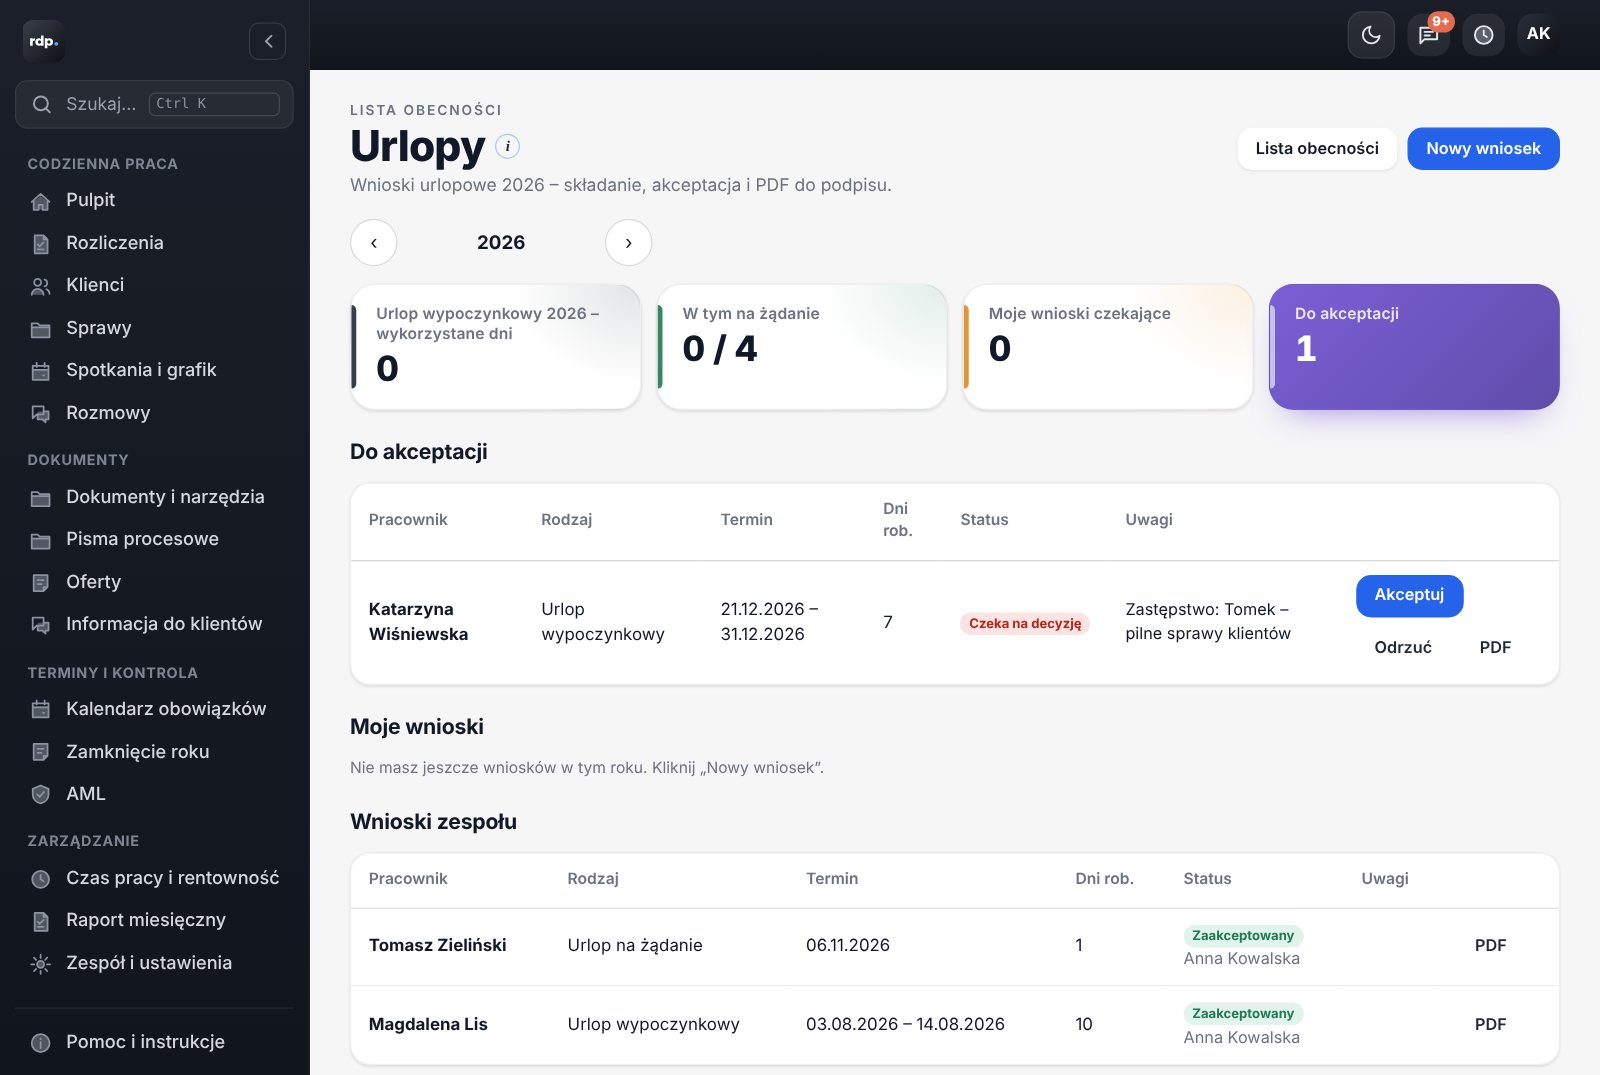
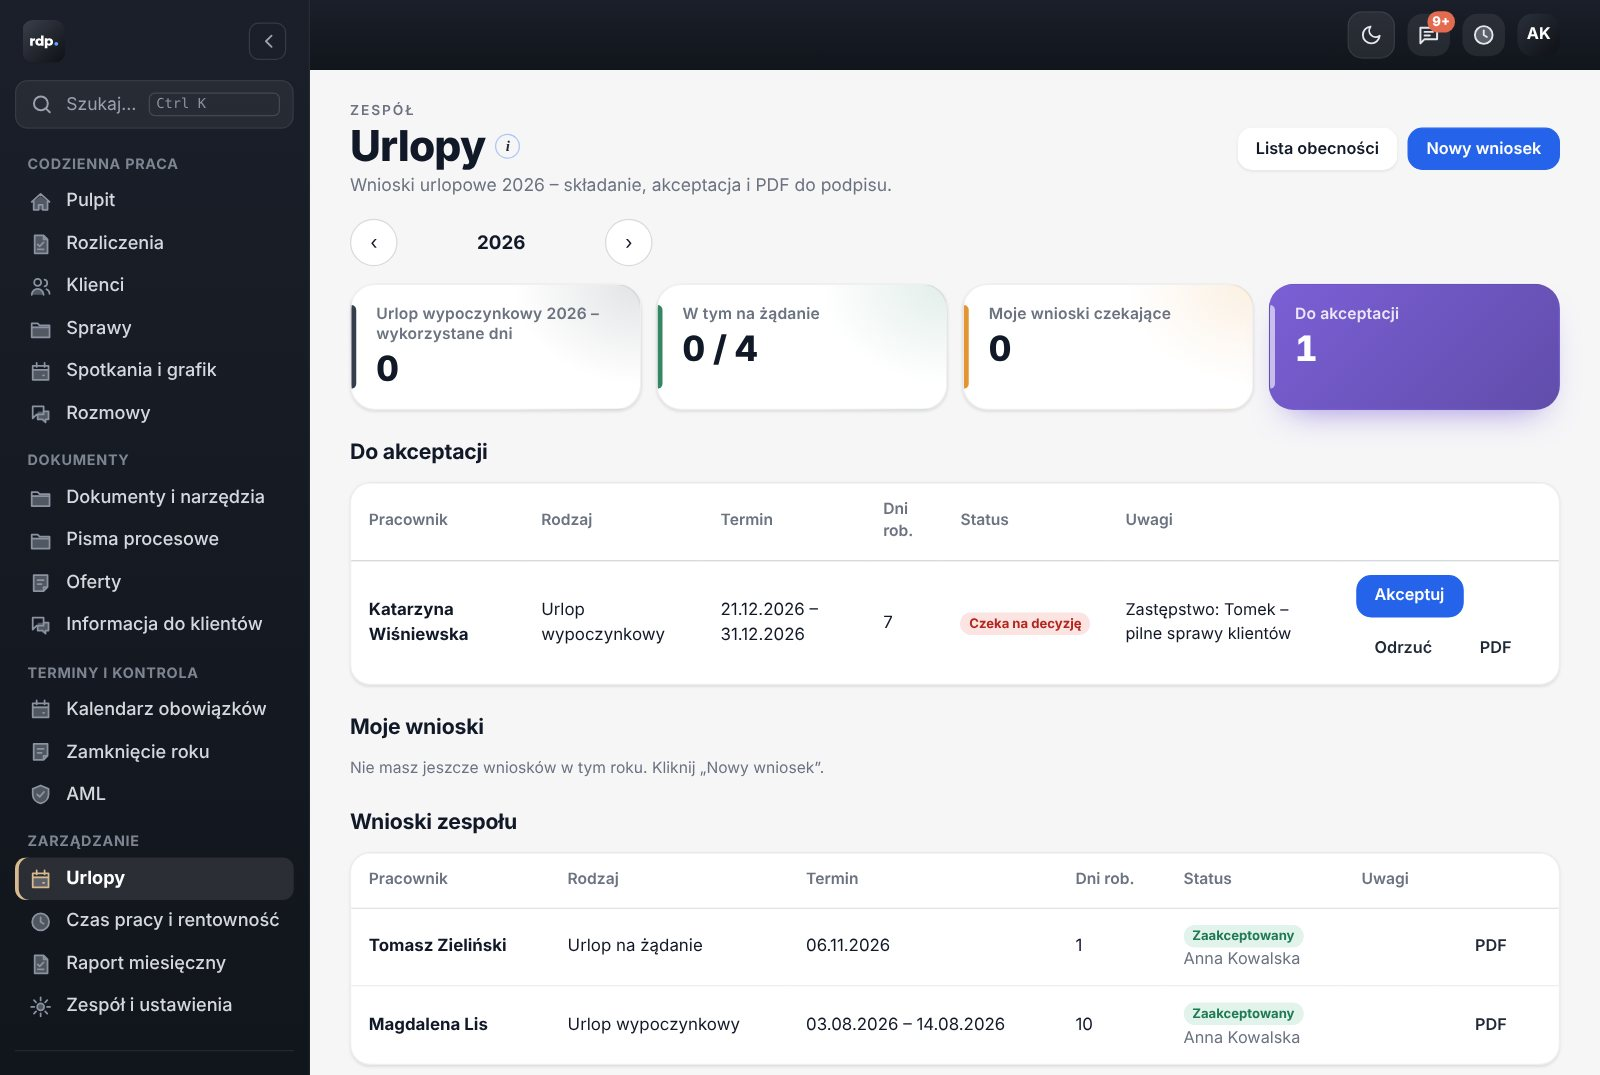
Urlopy w menu dla całego zespołu (także bez listy obecności)
Claude-Session: https://claude.ai/code/session_015JBGQnBs9Q66i9WSPfBoSb

Changed region(s): [[0.0, 0.8902, 0.1562, 0.9823], [0.0, 0.7981, 0.1875, 0.8595], [0.2188, 0.0921, 0.3125, 0.1228]]

diff --git a/public/js/main.js b/public/js/main.js
@@ -72,12 +72,12 @@ const MODULES = {
     // „Więcej” – rzadziej używane miejsca (też w wyszukiwarce Ctrl K)
     more: [['#/spotkania', 'Spotkania i grafik przyjęć', 'spotkania'], ['#/rozmowy', 'Rozmowy – wszystkie wątki o klientach', 'rozmowy'], ['#/dokumenty', 'Dokumenty i narzędzia (JPK, sprawozdania, wzory, kalkulator)', 'sprawozdania'], ['#/terminy', 'Kalendarz obowiązków', 'terminy'],
       ['#/zamkniecie-roku', 'Zamknięcie roku', 'rok'], ['#/informacje', 'Informacja do klientów (e-mail zbiorczy)', 'informacje'], ['#/oferty', 'Oferty', 'oferty'], ['#/aml', 'AML – weryfikacja klientów', 'aml'],
-      ['#/doradztwo/dokumenty', 'Pisma procesowe – wzory (RKDP i M2 TAX)', 'm2:dokumenty'], ['#/czas', 'Czas pracy i rentowność', 'm2:czas', 'admin'],
+      ['#/doradztwo/dokumenty', 'Pisma procesowe – wzory (RKDP i M2 TAX)', 'm2:dokumenty'], ['#/obecnosc/urlopy', 'Urlopy – wnioski urlopowe', 'urlopy'], ['#/czas', 'Czas pracy i rentowność', 'm2:czas', 'admin'],
       ['#/raport', 'Raport miesięczny', 'raport', 'admin'], ['#/zespol', 'Zespół i ustawienia', 'zespol', 'admin'], ['/pomoc/', 'Pomoc i instrukcje', 'pomoc'], ['/zainstaluj/', 'Zainstaluj rdp.app na telefonie', 'zainstaluj'], ['#/o-aplikacji', 'O aplikacji i RODO', 'oaplikacji'], ['#/', 'Wyloguj się', 'logout']] },
   m2: { label: 'M2 TAX', full: 'rdp.app', logo: '/m2tax-logo.png', alt: 'M2 TAX Doradcy Podatkowi', home: '#/doradztwo', need: 'doradztwo',
     // ten sam układ zakładek co w RKDP: Pulpit · Klienci · Sprawy · … · Więcej
     tabs: [['#/doradztwo', 'Pulpit', 'm2:'], ['#/doradztwo/klienci', 'Klienci', 'm2:klienci'], ['#/doradztwo/sprawy', 'Sprawy', 'm2:sprawy']],
-    more: [['#/doradztwo/dokumenty', 'Dokumenty i pisma procesowe', 'm2:dokumenty'], ['#/doradztwo/zlecenia', 'Zlecenia i umowy', 'm2:zlecenia'], ['#/doradztwo/oferty', 'Oferty M2 TAX', 'm2:oferty', 'm2'], ['#/doradztwo/zadania', 'Zadania zespołu', 'm2:zadania'], ['#/spotkania', 'Spotkania i grafik przyjęć', 'spotkania'], ['#/czas', 'Czas pracy i rentowność', 'm2:czas', 'admin'], ['#/zespol', 'Zespół i ustawienia', 'zespol', 'admin'], ['/pomoc/', 'Pomoc i instrukcje', 'pomoc'], ['/zainstaluj/', 'Zainstaluj rdp.app na telefonie', 'zainstaluj'], ['#/o-aplikacji', 'O aplikacji i RODO', 'oaplikacji'], ['#/', 'Wyloguj się', 'logout']] },
+    more: [['#/doradztwo/dokumenty', 'Dokumenty i pisma procesowe', 'm2:dokumenty'], ['#/doradztwo/zlecenia', 'Zlecenia i umowy', 'm2:zlecenia'], ['#/doradztwo/oferty', 'Oferty M2 TAX', 'm2:oferty', 'm2'], ['#/doradztwo/zadania', 'Zadania zespołu', 'm2:zadania'], ['#/spotkania', 'Spotkania i grafik przyjęć', 'spotkania'], ['#/obecnosc/urlopy', 'Urlopy – wnioski urlopowe', 'urlopy'], ['#/czas', 'Czas pracy i rentowność', 'm2:czas', 'admin'], ['#/zespol', 'Zespół i ustawienia', 'zespol', 'admin'], ['/pomoc/', 'Pomoc i instrukcje', 'pomoc'], ['/zainstaluj/', 'Zainstaluj rdp.app na telefonie', 'zainstaluj'], ['#/o-aplikacji', 'O aplikacji i RODO', 'oaplikacji'], ['#/', 'Wyloguj się', 'logout']] },
 };
 // konto „tylko podgląd JPK” – widzi wyłącznie zakładkę JPK
 MODULES.jpk = { label: 'RKDP', full: 'rdp.app · Podgląd JPK', logo: '/logo-rkdp.png', alt: 'RKDP spółka doradztwa podatkowego', home: '#/jpk', need: 'jpk', tabs: [['#/jpk', 'JPK', 'jpk']] };
@@ -116,7 +116,7 @@ const TAB_ICONS = {
   zgloszenia: I.skrzynka, sprawozdania: I.dokumenty, zespol: I.zespol, 'm2:': I.pulpit, 'm2:sprawy': I.dokumenty, 'm2:klienci': I.klienci,
   'm2:kalendarz': I.terminy, 'm2:zlecenia': I.zlecenia, 'm2:oferty': I.notatki, 'm2:zadania': I.zlecenia, 'm2:zgloszenia': I.skrzynka, 'm2:spotkania': I.zegar, 'm2:dokumenty': I.dokumenty,
   jpk: I.jpk, logout: I.wyloguj, default: I.info,
-  zlecenia: I.zlecenia, terminy: I.terminy, rok: I.notatki, informacje: I.rozmowy, oferty: I.notatki, aml: I.aml, raport: I.rozliczenia,
+  zlecenia: I.zlecenia, terminy: I.terminy, urlopy: I.terminy, rok: I.notatki, informacje: I.rozmowy, oferty: I.notatki, aml: I.aml, raport: I.rozliczenia,
   oaplikacji: I.info, pomoc: I.info, 'm2:czas': I.zegar, spotkania: I.terminy,
 };
 TAB_ICONS['m2:jpk'] = TAB_ICONS.jpk;
@@ -215,7 +215,6 @@ function renderWiecej(main) {
     h('div', { class: 'card wq-list' },
       row('#/profil', 'profil', 'Mój profil, Face ID, powiadomienia'),
       obec ? row('#/obecnosc', 'zegar', 'Lista obecności') : null,
-      obec ? row('#/obecnosc/urlopy', 'zegar', 'Urlopy – wnioski') : null,
       lastMore.some(x => x[2] === 'zespol') ? row('#/zespol', 'zespol', 'Zespół i ustawienia') : null,
       themeRow,
       row(isPartner() ? '/pomoc/partner/' : '/pomoc/', 'info', 'Pomoc i instrukcje'),
@@ -267,7 +266,7 @@ function layout(active) {
       ['Codzienna praca', ['pulpit', 'm2:', 'rozliczenia', 'klienci', 'm2:klienci', 'm2:sprawy', 'm2:zadania', 'spotkania', 'rozmowy']],
       ['Dokumenty', ['sprawozdania', 'm2:dokumenty', 'm2:zlecenia', 'm2:oferty', 'oferty', 'informacje']],
       ['Terminy i kontrola', ['terminy', 'rok', 'aml']],
-      ['Zarządzanie', ['m2:czas', 'raport', 'zespol']],
+      ['Zarządzanie', ['urlopy', 'm2:czas', 'raport', 'zespol']],
     ];
     const BOTTOM = ['pomoc', 'zainstaluj', 'oaplikacji'];
     const SHORT = { zainstaluj: 'Aplikacja na telefon', spotkania: 'Spotkania i grafik', 'm2:dokumenty': 'Pisma procesowe' };
@@ -452,7 +451,7 @@ async function route(opts = {}) {
   const view = parts[0] || startMod || (hasModule('rozliczenia') ? 'pulpit' : 'doradztwo');
   const m2key = 'm2:' + (M2_PARENT[parts[1]] || parts[1] || '');
   try {
-    if (view === 'obecnosc') c = await renderObecnosc(layout(m2only ? 'm2:obecnosc' : 'obecnosc'), parts[1], params);
+    if (view === 'obecnosc') c = await renderObecnosc(layout(parts[1] === 'urlopy' ? 'urlopy' : m2only ? 'm2:obecnosc' : 'obecnosc'), parts[1], params);
     else if (view === 'regulamin') c = await renderRegulamin(layout('regulamin'));
     else if (view === 'o-aplikacji') { const m = await import('./views/oaplikacji.js'); c = await m.renderOAplikacji(layout('oaplikacji'), parts[1]); }
     else if (view === 'wiecej') { const m2 = m2only; renderWiecej(layout(m2 ? 'm2:wiecej' : 'wiecej')); }

diff --git a/public/pomoc/ksiegowosc/index.html b/public/pomoc/ksiegowosc/index.html
@@ -127,7 +127,7 @@
 <figure><img src="/pomoc/img/ksieg-narzedzia.jpg" alt="Dokumenty i narzędzia" loading="lazy"><figcaption>Więcej → Dokumenty i narzędzia: umowy, oferty, pełnomocnictwa (UPL-1, PEL, PPS-1, procesowe), sprawozdania finansowe (XML do eKRS), protokoły ZZW, JPK, kalkulator.</figcaption></figure>
 <p><b>Oferta e-mailem:</b> w ofercie przycisk <b>Wyślij e-mailem</b> – klient dostaje wiadomość z Twoją stopką i przyciskiem „Zobacz ofertę”; link otwiera ofertę bez logowania, z pobraniem PDF, i zawsze pokazuje ostatnio zapisaną wersję. Status oferty zmienia się na „wysłana”, a w ofercie widać, czy i kiedy klient ją otworzył. „Link do oferty” daje sam link do skopiowania (np. do SMS).</p>
 <p><b>Instrukcje dla klientów:</b> na górze strony Dokumenty i narzędzia – „Po rejestracji spółki w KRS” (CRBR, rachunek bankowy, PCC-3), „Jak złożyć UPL-1”, „Umów spotkanie”. Kliknij kafelek: możesz wpisać nazwę klienta i swoje dane kontaktowe (pojawią się na stronie), a potem <b>Kopiuj link</b>, <b>Otwórz</b> albo <b>Wyślij e-mailem</b> (gotowa treść wiadomości z linkiem).</p>
-<p><b>Urlopy – wnioski:</b> zegar u góry (lista obecności) → <b>Urlopy</b>, albo Więcej → Urlopy – wnioski. <b>Nowy wniosek</b>: rodzaj (wypoczynkowy, na żądanie, okolicznościowy, opieka, bezpłatny, dzień wolny), daty od–do i uwagi (np. kto zastępuje) – dni robocze liczą się same, bez weekendów i świąt. Przełożony dostaje powiadomienie i akceptuje albo odrzuca wniosek (sekcja „Do akceptacji”); po akceptacji dni urlopu same wpisują się do listy obecności. Dopóki wniosek czeka, możesz go wycofać. „PDF” – wniosek do podpisu.</p>
+<p><b>Urlopy – wnioski:</b> menu po lewej → <b>Urlopy</b> (grupa Zarządzanie), na telefonie Więcej → Urlopy – wnioski urlopowe; także przycisk „Urlopy” na liście obecności. <b>Nowy wniosek</b>: rodzaj (wypoczynkowy, na żądanie, okolicznościowy, opieka, bezpłatny, dzień wolny), daty od–do i uwagi (np. kto zastępuje) – dni robocze liczą się same, bez weekendów i świąt. Przełożony dostaje powiadomienie i akceptuje albo odrzuca wniosek (sekcja „Do akceptacji”); po akceptacji dni urlopu same wpisują się do listy obecności. Dopóki wniosek czeka, możesz go wycofać. „PDF” – wniosek do podpisu.</p>
 <figure><img src="/pomoc/img/ksieg-urlopy.jpg" alt="Wnioski urlopowe" loading="lazy"><figcaption>Urlopy: wnioski do akceptacji, własne wnioski i wnioski zespołu (dane z wersji demo).</figcaption></figure>
 <p>W „Więcej” są też: Kalendarz obowiązków, Zamknięcie roku, Informacja do klientów (e-mail zbiorczy), Oferty, AML, Rozmowy, Spotkania.</p>
 

diff --git a/public/js/views/urlopy.js b/public/js/views/urlopy.js
@@ -2,7 +2,7 @@
 // lub odrzuca. Po akceptacji dni robocze z wniosku trafiają do listy obecności. Wniosek można pobrać jako PDF do podpisu.
 import { h, toast, fail, modal, infoTip, printHtml } from '../ui.js';
 import { sb, state, memberById, isAdmin } from '../store.js';
-import { KINDS, holidays, visibleMembers } from './obecnosc.js';
+import { KINDS, holidays } from './obecnosc.js';
 
 export const LEAVE_KINDS = ['urlop', 'urlop_zadanie', 'okolicznosciowy', 'opieka', 'bezplatny', 'wolne'];
 const STATUS = { oczekuje: ['Czeka na decyzję', 'warn'], zaakceptowany: ['Zaakceptowany', 'ok'], odrzucony: ['Odrzucony', ''], wycofany: ['Wycofany', ''] };
@@ -34,7 +34,12 @@ export function workDays(from, to) {
   return out;
 }
 
-const canDecide = r => isAdmin() || (r.member_id !== state.me.id && visibleMembers().some(m => m.id === r.member_id));
+// akceptuje administrator albo osoba z attendance_scope dla domeny pracownika (jak w bazie: can_decide_leave)
+const canDecide = r => {
+  if (isAdmin()) return true;
+  const scope = (state.me.attendance_scope || '').trim().toLowerCase();
+  return !!scope && r.member_id !== state.me.id && (memberById(r.member_id)?.email || '').toLowerCase().endsWith('@' + scope);
+};
 
 export function leavePdf(r) {
   const m = memberById(r.member_id) || {}, dec = r.decided_by ? memberById(r.decided_by) : null;
@@ -146,11 +151,11 @@ export async function renderUrlopy(main, params) {
 
   main.replaceChildren(...[
     h('div', { class: 'page-head' },
-      h('div', {}, h('p', { class: 'eyebrow' }, 'Lista obecności'),
+      h('div', {}, h('p', { class: 'eyebrow' }, 'Zespół'),
         h('h1', { style: { marginTop: '6px', display: 'flex', alignItems: 'center' } }, 'Urlopy', infoTip(HELP, 'Urlopy – instrukcja')),
         h('p', { class: 'sub' }, `Wnioski urlopowe ${year} – składanie, akceptacja i PDF do podpisu.`)),
       h('div', { class: 'ob-actions' },
-        h('a', { class: 'btn btn-outline btn-sm', href: '#/obecnosc' }, 'Lista obecności'),
+        state.me.attendance || isAdmin() || state.me.attendance_scope ? h('a', { class: 'btn btn-outline btn-sm', href: '#/obecnosc' }, 'Lista obecności') : null,
         h('button', { class: 'btn btn-primary btn-sm', onclick: () => newLeaveDialog(reload) }, 'Nowy wniosek'))),
     h('div', { class: 'ob-bar' }, h('div', { class: 'ob-month' },
       h('button', { class: 'icon-btn', 'aria-label': 'Poprzedni rok', onclick: () => { location.hash = `#/obecnosc/urlopy?rok=${year - 1}`; } }, '‹'),

diff --git a/public/js/views/oaplikacji.js b/public/js/views/oaplikacji.js
@@ -96,7 +96,7 @@ export const RODO = [
 // historia zmian – od pierwszej wersji (najnowsze na górze)
 const NEWS = [
   ['2.6', '20 listopada 2026', [
-    'Wnioski urlopowe (propozycja Weroniki): Lista obecności → Urlopy → „Nowy wniosek” – rodzaj, daty, uwagi; dni robocze liczą się same. Przełożony dostaje powiadomienie i akceptuje lub odrzuca, a po akceptacji dni urlopu same wpisują się do listy obecności. Wniosek w PDF do podpisu.',
+    'Wnioski urlopowe (propozycja Weroniki): menu → Urlopy (na telefonie Więcej → Urlopy) → „Nowy wniosek” – rodzaj, daty, uwagi; dni robocze liczą się same. Przełożony dostaje powiadomienie i akceptuje lub odrzuca, a po akceptacji dni urlopu same wpisują się do listy obecności. Wniosek w PDF do podpisu.',
     'Instrukcje dla klientów w jednym miejscu: Dokumenty i narzędzia → „Instrukcje dla klientów” – link do skopiowania, otwarcia albo wysłania e-mailem.',
     'Nowa instrukcja dla klienta „Spółka zarejestrowana w KRS – co dalej”: CRBR, rachunek bankowy (NIP-8, kapitał) i PCC-3 z terminami; z nazwą klienta i danymi opiekuna (na ten adres klient wysyła potwierdzenie otwarcia rachunku).',
   ]],

diff --git a/public/pomoc/doradca/index.html b/public/pomoc/doradca/index.html
@@ -227,7 +227,7 @@
 
 <h2 id="telefon"><span class="n">10</span>Na telefonie</h2>
 <p>rdp.app działa jak aplikacja na telefonie (instrukcja: <a href="/zainstaluj/">app.ruszniak.io/zainstaluj</a>). W „Mój profil” włączysz powiadomienia push – wtedy o nowych zadaniach od biur dowiesz się od razu.</p>
-<p><b>Urlopy:</b> zegar u góry (lista obecności) → <b>Urlopy</b> → <b>Nowy wniosek</b> (rodzaj, daty od–do, uwagi). Wniosek trafia do akceptacji (w M2 TAX – Marcin Otręba), a po akceptacji dni urlopu same wpisują się do listy obecności. „PDF” – wniosek do podpisu.</p>
+<p><b>Urlopy:</b> menu → <b>Urlopy</b> (na telefonie: Więcej → Urlopy – wnioski urlopowe) → <b>Nowy wniosek</b> (rodzaj, daty od–do, uwagi). Wniosek trafia do akceptacji (w M2 TAX – Marcin Otręba), a po akceptacji dni urlopu same wpisują się do listy obecności. „PDF” – wniosek do podpisu.</p>
 <figure class="narrow"><img src="/pomoc/img/doradca-telefon.jpg" alt="Zadanie od biura na telefonie" loading="lazy"><figcaption>Zadanie od biura na telefonie – te same przyciski i licznik czasu.</figcaption></figure>
 
 <h2 id="sciaga"><span class="n">11</span>Ściąga</h2>

diff --git a/public/sw.js b/public/sw.js
@@ -1,7 +1,7 @@
 // Service worker aplikacji RKDP: powiadomienia push, instalacja jako aplikacja (PWA) i ekran „brak internetu”.
 // Danych z bazy NIE zapisujemy w pamięci urządzenia – w trybie offline pokazujemy tylko komunikat.
 const OFFLINE = '/offline.html';
-const CACHE = 'rkdp-shell-v119';
+const CACHE = 'rkdp-shell-v120';
 const NAV = 'rkdp-nav'; // cel kliknięcia w powiadomienie – odbiera go otwarta aplikacja
 
 self.addEventListener('install', e => {
